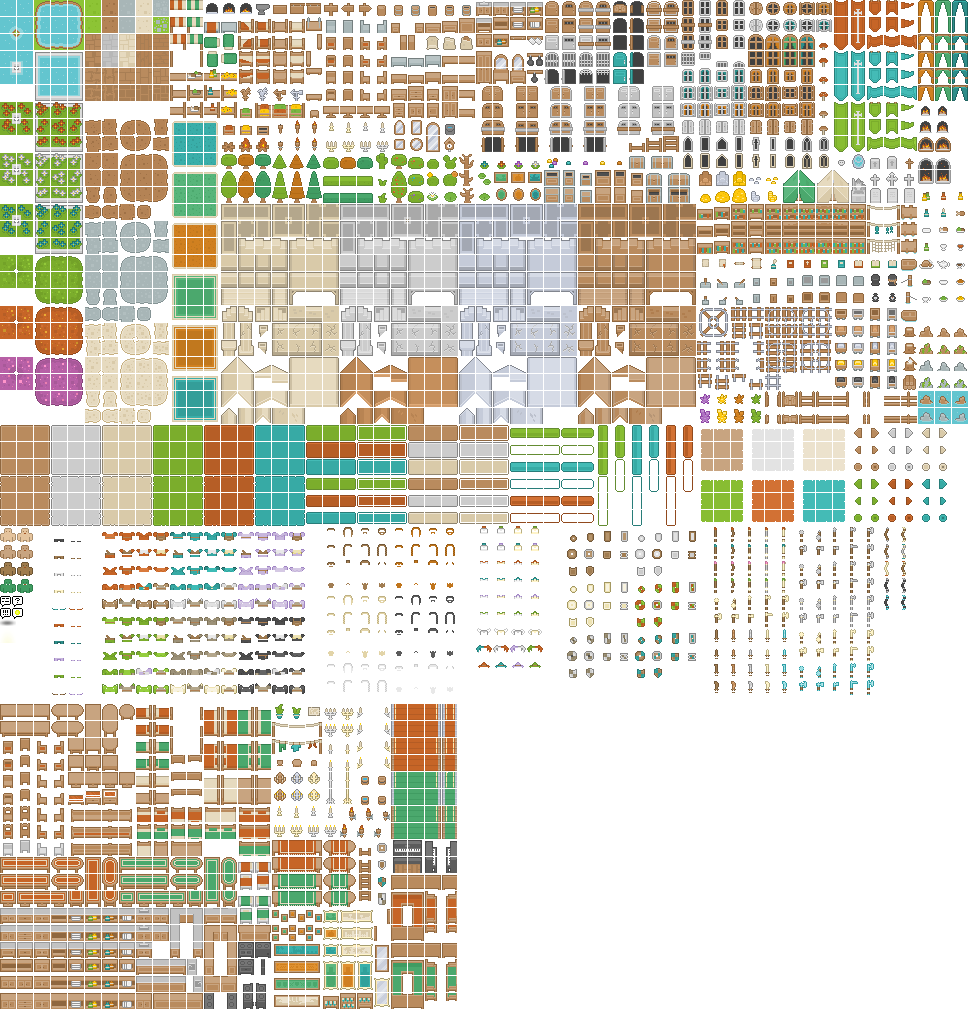
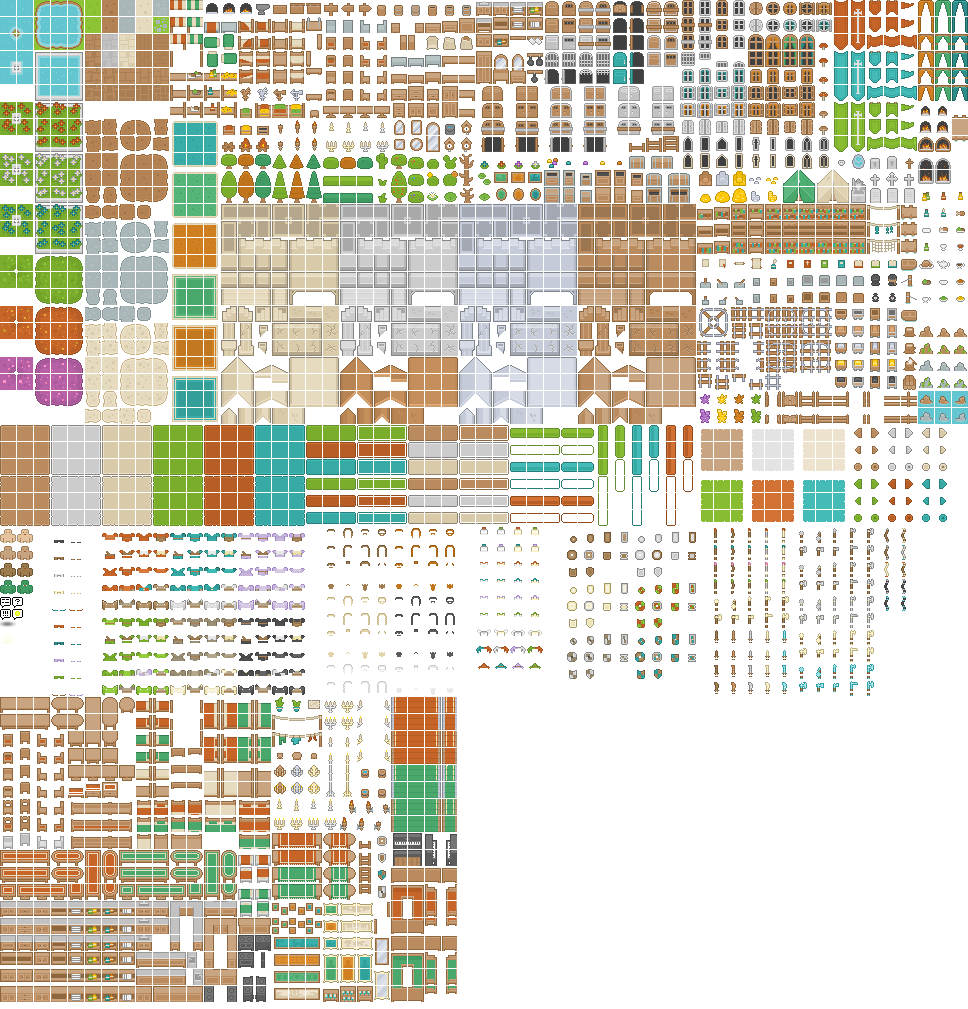
Better water tiles

diff --git a/src/level/LevelGen.cpp b/src/level/LevelGen.cpp
@@ -53,7 +53,7 @@ void LevelGen::make_house(int x, int y, int w, int h, int depth) {
       } else if (ix == x + w - 1) {
         build(ix, iy, "sand_wall_right");
       } else if (iy == y + h - 1) {
-        build(ix, iy, "sand_wall_lower_mid");
+        floor(ix, iy, "sand_wall_lower_mid");
       } else {
         build(ix, iy, "sand_wall_mid");
       }
@@ -73,22 +73,28 @@ void LevelGen::make_house(int x, int y, int w, int h, int depth) {
       } else if (iy > y + h - depth - 1 && iy < y + h - 1 && ix > x &&
                  ix < x + w - 1 && ix % 2 == 0 && iy % 2 == 0) {
         if (dis(gen) > 0.0f) {
-          overlay(ix, iy, "brown_window");
+          overlay(ix, iy, "brown_window_round");
         }
       }
     }
   }
   int doorX = x + (w - 1) / 2;
   int doorY = y + h - 1;
+  floor(doorX, doorY, "sand_wall_lower_mid_free");
   build(doorX, doorY, "door_open");
   openConnections.push_back(
       {Level::Type::House, TilePos(*level, doorX, doorY)});
+
   overlay(x, y + h - 1 - depth, "brown_roof_angular_left_lower");
   overlay(x + w - 1, y + h - 1 - depth, "brown_roof_angular_right_lower");
   overlay(x, y, "brown_roof_angular_left_upper");
   overlay(x + w - 1, y, "brown_roof_angular_right_upper");
   build(x, y + h - 1, "sand_wall_lower_left");
   build(x + w - 1, y + h - 1, "sand_wall_lower_right");
+}
+
+void LevelGen::floor(int x, int y, std::string tileName) {
+  level->get(x, y).setData(data->tile(tileName));
 }
 
 void LevelGen::build(int x, int y, std::string tileName) {
@@ -123,6 +129,40 @@ void LevelGen::generate_overworld() {
       }
     }
   }
+
+  for (int x = 0; x < w; ++x) {
+    for (int y = 0; y < h; ++y) {
+      if (level->get(x, y).group() == "water") {
+        if(hasSurrounding(x, y, "water", {CMP_A,CMP_D,CMP_A,CMP_S,CMP_S,CMP_A,CMP_S,CMP_A}))
+          floor(x, y, "water_outer_up");
+        if(hasSurrounding(x, y, "water", {CMP_A,CMP_S,CMP_A,CMP_S,CMP_S,CMP_A,CMP_D,CMP_A}))
+          floor(x, y, "water_outer_down");
+        if(hasSurrounding(x, y, "water", {CMP_A,CMP_S,CMP_A,CMP_D,CMP_S,CMP_A,CMP_S,CMP_A}))
+          floor(x, y, "water_outer_left");
+        if(hasSurrounding(x, y, "water", {CMP_A,CMP_S,CMP_A,CMP_S,CMP_D,CMP_A,CMP_S,CMP_A}))
+          floor(x, y, "water_outer_right");
+
+        if(hasSurrounding(x, y, "water", {CMP_A,CMP_D,CMP_A,CMP_D,CMP_S,CMP_A,CMP_S,CMP_A}))
+          floor(x, y, "water_outer_up_left");
+        if(hasSurrounding(x, y, "water", {CMP_A,CMP_D,CMP_A,CMP_S,CMP_D,CMP_A,CMP_S,CMP_A}))
+          floor(x, y, "water_outer_up_right");
+        if(hasSurrounding(x, y, "water", {CMP_A,CMP_S,CMP_A,CMP_D,CMP_S,CMP_A,CMP_D,CMP_A}))
+          floor(x, y, "water_outer_down_left");
+        if(hasSurrounding(x, y, "water", {CMP_A,CMP_S,CMP_A,CMP_S,CMP_D,CMP_A,CMP_D,CMP_A}))
+          floor(x, y, "water_outer_down_right");
+
+        if(hasSurrounding(x, y, "water", {CMP_A,CMP_S,CMP_A,CMP_S,CMP_S,CMP_A,CMP_S,CMP_D}))
+          floor(x, y, "water_inner_up_left");
+        if(hasSurrounding(x, y, "water", {CMP_A,CMP_S,CMP_A,CMP_S,CMP_S,CMP_D,CMP_S,CMP_S}))
+          floor(x, y, "water_inner_up_right");
+        if(hasSurrounding(x, y, "water", {CMP_D,CMP_S,CMP_A,CMP_S,CMP_S,CMP_A,CMP_S,CMP_S}))
+          floor(x, y, "water_inner_down_right");
+        if(hasSurrounding(x, y, "water", {CMP_A,CMP_S,CMP_D,CMP_S,CMP_S,CMP_A,CMP_S,CMP_S}))
+          floor(x, y, "water_inner_down_left");
+      }
+    }
+  }
+
 
   for (int x = 0; x < w; ++x) {
     for (int y = 0; y < h; ++y) {
@@ -186,24 +226,56 @@ void LevelGen::generate_house() {
       if (y == 0) {
         level->get(x, y).setData(data.tile("sand_wall_mid"));
         if (dis(gen) > 0.9f) {
-          level->getOverlay(x, y).setData(data.tile("brown_window_round"));
+          build(x, y, "brown_window_round");
         }
       } else if (y == 1) {
         level->get(x, y).setData(data.tile("sand_wall_lower_mid"));
         if (dis(gen) > 0.7f) {
-          level->getOverlay(x, y).setData(data.tile("shelf"));
+          build(x, y, "shelf");
         }
       } else {
         level->get(x, y).setData(data.tile("planks"));
       }
     }
   }
+
+  build((w-1)/2, 0, "clock");
   int doorX = (w - 1) / 2;
   int doorY = h - 1;
   openConnections.push_back(
       {Level::Type::Overworld, TilePos(*level, doorX, doorY)});
   level->get(doorX, doorY).setData(data.tile("planks"));
   overlay(doorX, doorY, "door_light");
+}
+
+bool LevelGen::hasSurrounding(int x, int y, const std::string &group, std::array<LevelGen::TileCompare, 8> surrounding) {
+  std::vector<std::pair<int, int> > offsets = {
+    {-1, -1},
+    { 0, -1},
+    { 1, -1},
+    {-1,  0},
+    { 1,  0},
+    {-1,  1},
+    { 0,  1},
+    { 1,  1}
+  };
+  for (unsigned int i = 0; i < offsets.size(); i++) {
+    auto off = offsets[i];
+    bool same = level->get(x + off.first, y + off.second).group() == group;
+    switch(surrounding.at(i)) {
+    case TileCompare::CMP_S:
+      if (!same)
+        return false;
+      break;
+    case TileCompare::CMP_D:
+      if (same)
+        return false;
+      break;
+    case TileCompare::CMP_A:
+      break;
+    }
+  }
+  return true;
 }
 
 Level *LevelGen::generate(World &world, GameData &data, Level::Type type) {

diff --git a/src/gamedata/TextureAtlas.h b/src/gamedata/TextureAtlas.h
@@ -27,10 +27,21 @@ public:
     for (auto tex : data["textures"]) {
 
       sf::Sprite sprite(texture);
-      int x = tex["offset"][0];
-      int y = tex["offset"][1];
-      int wx = tex["size"][0];
-      int wy = tex["size"][1];
+      int x,y;
+      if (tex.find("offset") != tex.end()) {
+        x = tex["offset"][0];
+        y = tex["offset"][1];
+      } else {
+        x = tex["tile"][0];
+        y = tex["tile"][1];
+        x *= 17;
+        y *= 17;
+      }
+      int wx = 16, wy = 16;
+      if (tex.find("size") != tex.end()) {
+        wx = tex["size"][0];
+        wy = tex["size"][1];
+      }
       sprite.setTextureRect({x, y, wx, wy});
       sprite.setScale({1.01f, 1.01f});
 

diff --git a/src/level/LevelGen.h b/src/level/LevelGen.h
@@ -16,6 +16,7 @@ class LevelGen {
 
   void make_house(int x, int y, int w, int h, int depth);
 
+  void floor(int x, int y, std::string tileName);
   void build(int x, int y, std::string tileName);
   void overlay(int x, int y, std::string tileName);
 
@@ -28,6 +29,12 @@ class LevelGen {
 
   void generate_house();
 
+  enum TileCompare {
+    CMP_S, // Same group
+    CMP_D, // DIfferent group
+    CMP_A // all groups
+  };
+  bool hasSurrounding(int x, int y, const std::string &group, std::array<TileCompare, 8> surrounding);
 public:
   struct Connection {
     Level::Type targetType;

diff --git a/src/gamedata/GameData.cpp b/src/gamedata/GameData.cpp
@@ -76,9 +76,13 @@ void GameData::parseTileData(const std::string &path) {
 
     Tiles[id] = new TileData(id, group, passable, animationTime);
 
-    auto sprites = tile["sprites"];
-    for (auto sprite : sprites)
-      Tiles[id]->addSprite(getSprite(sprite));
+    if (tile.find("sprites") != tile.end()) {
+        auto sprites = tile["sprites"];
+        for (auto sprite : sprites)
+          Tiles[id]->addSprite(getSprite(sprite));
+    } else {
+        Tiles[id]->addSprite(getSprite(id));
+    }
   }
 }
 

diff --git a/src/level/Tile.h b/src/level/Tile.h
@@ -28,6 +28,15 @@ public:
     }
   }
 
+  const std::string &group() const {
+    if (Data)
+      return Data->group();
+    else {
+      static std::string noGroup;
+      return noGroup;
+    }
+  }
+
   void setTeleportTarget(const TilePos &target);
   bool getTeleportTarget(TilePos &out) const;
 

diff --git a/main.cpp b/main.cpp
@@ -34,8 +34,6 @@ int main() {
   Character *player1 = new Character(level, Vec2(45 * 16, 42 * 16));
   level.add(player1);
 
-  level.get(42, 38).setTeleportTarget(TilePos(44, 44));
-
   Character *player2 = new Character(level, Vec2(680, 580));
   level.add(player2);
 
